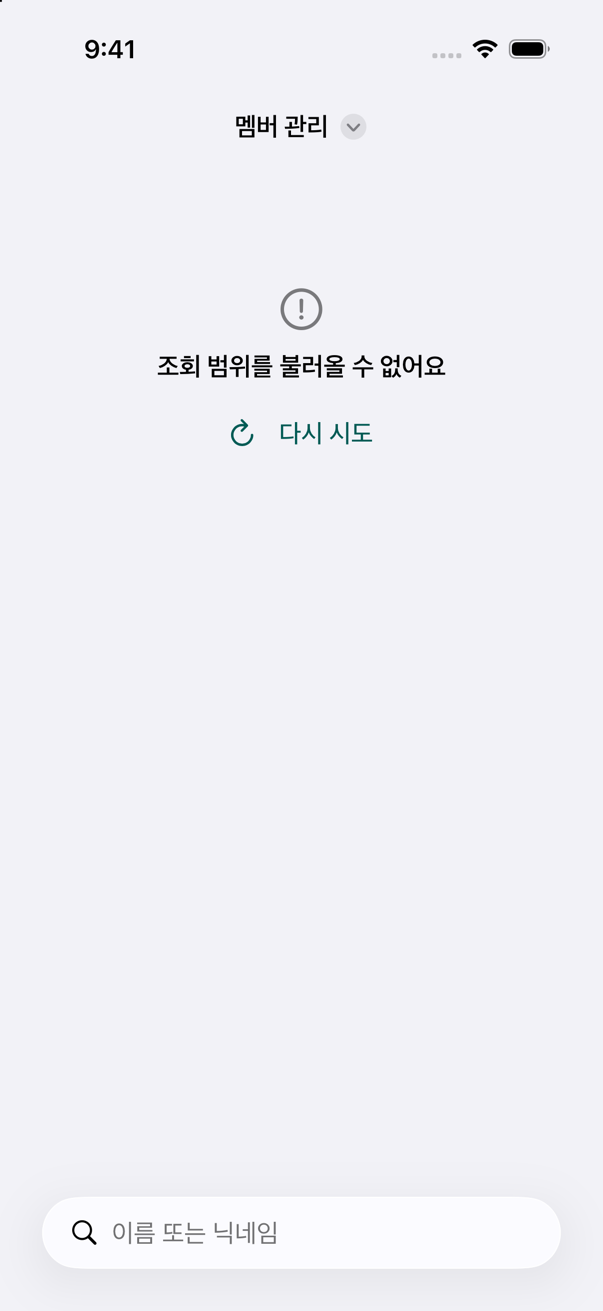
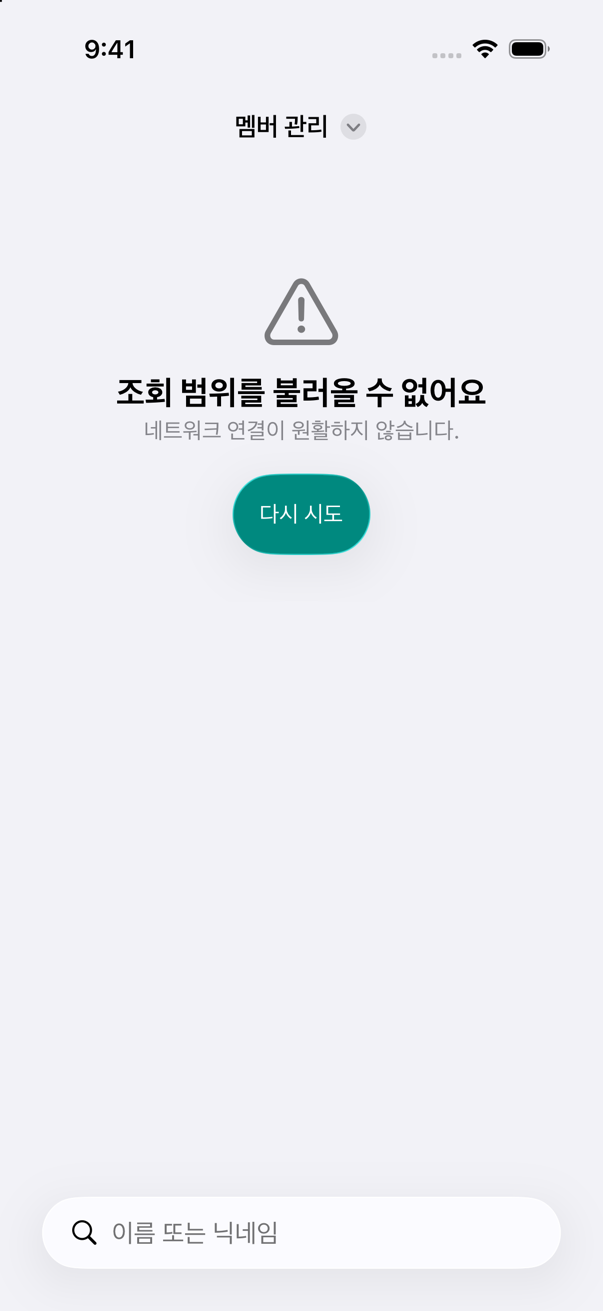
design: 운영진 멤버 조회 실패를 공통 재시도 화면으로 통일 (#1619)
- 조회 범위와 멤버 검색 실패 단계 및 AppError 분류를 보존
- 큰 글씨에서 두 오류 액션이 함께 있으면 세로로 배치하고 문의 문구 줄바꿈 허용
- 오류 복구 회귀 테스트와 일반·문의 대상 오류 화면 검증 추가

Changed region(s): [[0.209, 0.2136, 0.806, 0.4272]]

diff --git a/UMCApp/Features/Activity/Presentation/Tests/MemberAdministrationViewModelTests.swift b/UMCApp/Features/Activity/Presentation/Tests/MemberAdministrationViewModelTests.swift
@@ -37,6 +37,7 @@ private final class AdministrationFake: MemberAdministrationUseCaseProtocol {
     var organizationGate: SearchGate?
     var organizationFails = false
     var generationsFail = false
+    var firstPageFailure: AppError?
     var nextPageFails = false
     var lastPage: Int?
     var generationOptions = [MemberFilterOption(id: "10", name: "10기", isActive: true)]
@@ -44,6 +45,7 @@ private final class AdministrationFake: MemberAdministrationUseCaseProtocol {
     func search(filter: MemberSearchFilter, page: Int) async throws -> AdminMemberPage {
         lastFilter = filter
         lastPage = page
+        if page == 0, let firstPageFailure { throw firstPageFailure }
         if page > 0 && nextPageFails { throw URLError(.badServerResponse) }
         if filter.keyword == "old", let gate { await gate.pause() }
         return .init(members: [adminMember(filter.keyword.isEmpty ? "initial" : filter.keyword)], hasNext: true)
@@ -150,7 +152,7 @@ struct MemberAdministrationViewModelTests {
 
         await vm.load()
 
-        #expect(vm.errorMessage != nil)
+        #expect(vm.filterOptionsState == .failed(AppError.from(URLError(.badServerResponse))))
         #expect(!vm.isLoading)
         #expect(vm.generations.isEmpty)
         #expect(vm.organizations.schools.isEmpty)
@@ -160,7 +162,7 @@ struct MemberAdministrationViewModelTests {
         api.generationsFail = false
         await vm.retry()
 
-        #expect(vm.errorMessage == nil)
+        #expect(vm.searchError == nil)
         #expect(!vm.isLoading)
         #expect(vm.generations.map(\.id) == ["10"])
         #expect(vm.filter.gisuId == "10")
@@ -194,6 +196,22 @@ struct MemberAdministrationViewModelTests {
         #expect(api.lastFilter == .init(keyword: "검색", gisuId: "10", schoolId: "20"))
     }
 
+    @Test func searchFailureRetainsReportableCauseUntilRetrySucceeds() async {
+        let api = AdministrationFake()
+        let error = AppError.repository(.invalidResponse(detail: "결과 형식 불일치"))
+        api.firstPageFailure = error
+        let vm = MemberAdministrationViewModel(useCase: api, membersUseCase: MemberActionsFake(),
+                                               session: UserSessionManager())
+        await vm.load()
+        #expect(vm.filterOptionsState == .ready)
+        #expect(vm.searchError == error)
+        #expect(vm.searchError?.isReportable == true)
+        api.firstPageFailure = nil
+        await vm.retry()
+        #expect(vm.searchError == nil)
+        #expect(vm.members.map(\.id) == ["initial"])
+    }
+
     @Test func paginationFailureKeepsResultsAndRetriesSamePage() async {
         let api = AdministrationFake()
         let vm = MemberAdministrationViewModel(useCase: api, membersUseCase: MemberActionsFake(),
@@ -202,7 +220,7 @@ struct MemberAdministrationViewModelTests {
         api.nextPageFails = true
         await vm.loadMore()
         #expect(vm.nextPageError != nil)
-        #expect(vm.errorMessage == nil)
+        #expect(vm.searchError == nil)
         #expect(vm.members.map(\.id) == ["initial"])
         #expect(api.lastPage == 1)
         api.nextPageFails = false
@@ -217,15 +235,14 @@ struct MemberAdministrationViewModelTests {
         let vm = MemberAdministrationViewModel(useCase: api, membersUseCase: MemberActionsFake(),
                                                session: UserSessionManager())
         await vm.load()
-        #expect(vm.errorMessage != nil)
-        #expect(vm.filterOptionsState == .failed("조직 조회 실패"))
+        #expect(vm.filterOptionsState == .failed(.domain(.custom(message: "조직 조회 실패"))))
         await vm.search()
         #expect(api.lastFilter == nil)
-        #expect(vm.errorMessage != nil)
+        #expect(vm.filterOptionsState == .failed(.domain(.custom(message: "조직 조회 실패"))))
         api.organizationFails = false
         await vm.retry()
         #expect(vm.organizations.schools.map(\.id) == ["20"])
-        #expect(vm.errorMessage == nil)
+        #expect(vm.searchError == nil)
     }
 
     @Test func staleSearchCannotReplaceNewResults() async {

diff --git a/UMCApp/Features/Activity/Presentation/Sources/ViewModels/MemberAdministrationViewModel.swift b/UMCApp/Features/Activity/Presentation/Sources/ViewModels/MemberAdministrationViewModel.swift
@@ -10,7 +10,7 @@ final class MemberAdministrationViewModel {
     enum FilterOptionsState: Equatable {
         case loading
         case ready
-        case failed(String)
+        case failed(AppError)
     }
 
     private let useCase: MemberAdministrationUseCaseProtocol
@@ -24,7 +24,7 @@ final class MemberAdministrationViewModel {
     private(set) var isLoadingNextPage = false
     private(set) var isMutating = false
     private(set) var isLoadingDetail = false
-    private(set) var errorMessage: String?
+    private(set) var searchError: AppError?
     private(set) var nextPageError: String?
     private(set) var filterOptionsState: FilterOptionsState = .loading
     private(set) var detailError: String?
@@ -121,7 +121,7 @@ final class MemberAdministrationViewModel {
         guard !loaded else { return }
         filterOptionsState = .loading
         isLoading = true
-        errorMessage = nil
+        searchError = nil
         let sessionRevision = session.sessionRevision
         do {
             let fetchedAuthority = try await useCase.fetchAuthority()
@@ -142,9 +142,7 @@ final class MemberAdministrationViewModel {
             loaded = true
             await changeGeneration()
         } catch {
-            let description = message(error)
-            filterOptionsState = .failed(description)
-            errorMessage = description
+            filterOptionsState = .failed(listError(from: error))
             isLoading = false
         }
     }
@@ -164,7 +162,7 @@ final class MemberAdministrationViewModel {
         nextPageError = nil
         organizations = .init(chapters: [], schools: [])
         isLoading = true
-        errorMessage = nil
+        searchError = nil
         filterOptionsState = .loading
         do {
             let options = try await useCase.fetchOrganizations(gisuId: gisuId)
@@ -175,9 +173,7 @@ final class MemberAdministrationViewModel {
             await search()
         } catch {
             guard version == organizationVersion else { return }
-            let description = message(error)
-            filterOptionsState = .failed(description)
-            errorMessage = description
+            filterOptionsState = .failed(listError(from: error))
             isLoading = false
         }
     }
@@ -196,7 +192,7 @@ final class MemberAdministrationViewModel {
         defer { if version == requestVersion { isLoading = false } }
         isLoadingNextPage = false
         nextPageError = nil
-        errorMessage = nil
+        searchError = nil
         members = []
         hasNext = false
         do {
@@ -210,7 +206,7 @@ final class MemberAdministrationViewModel {
             hasNext = result.hasNext
         } catch {
             guard version == requestVersion, !Task.isCancelled else { return }
-            errorMessage = message(error)
+            searchError = listError(from: error)
         }
     }
 
@@ -308,7 +304,13 @@ final class MemberAdministrationViewModel {
         await reloadHistory()
     }
 
-    static let genericErrorMessage = "요청을 처리하지 못했어요. 잠시 후 다시 시도해 주세요."
+    /// 조직 권한 등 도메인 오류는 원래 분류로 보존하고 나머지는 공통 변환을 사용합니다.
+    private func listError(from error: Error) -> AppError {
+        if let domainError = error as? DomainError { return .domain(domainError) }
+        return AppError.from(error)
+    }
+
+    private static let genericErrorMessage = "요청을 처리하지 못했어요. 잠시 후 다시 시도해 주세요."
 
     private func message(_ error: Error) -> String {
         if let error = error as? DomainError { return error.userMessage }

diff --git a/UMCApp/Features/Activity/Presentation/Sources/Views/Operator/OperatorMemberManagementView.swift b/UMCApp/Features/Activity/Presentation/Sources/Views/Operator/OperatorMemberManagementView.swift
@@ -54,16 +54,16 @@ struct OperatorMemberManagementView: View {
             switch viewModel.filterOptionsState {
             case .loading:
                 loadingRow("조회 범위를 확인하는 중…")
-            case .failed(let reason):
+            case .failed(let error):
                 failureSection(
                     viewModel.generations.isEmpty ? "조회 범위를 불러올 수 없어요" : "조직을 불러올 수 없어요",
-                    reason: reason
+                    error: error
                 )
             case .ready:
                 if viewModel.isLoading {
                     loadingRow("멤버를 찾는 중…")
-                } else if let error = viewModel.errorMessage {
-                    failureSection("멤버 목록을 불러올 수 없어요", reason: error)
+                } else if let error = viewModel.searchError {
+                    failureSection("멤버 목록을 불러올 수 없어요", error: error)
                 } else if viewModel.members.isEmpty {
                     ContentUnavailableView(
                         "조회된 멤버가 없어요", systemImage: "person.2",
@@ -95,30 +95,16 @@ struct OperatorMemberManagementView: View {
         ProgressView(title).frame(maxWidth: .infinity)
     }
 
-    private func failureSection(_ title: String, reason: String) -> some View {
-        VStack(spacing: DefaultSpacing.spacing12) {
-            Image(systemName: "exclamationmark.circle")
-                .font(.title)
-                .foregroundStyle(.secondary)
-                .accessibilityHidden(true)
-            Text(title).font(.headline)
-            if !reason.isEmpty, reason != MemberAdministrationViewModel.genericErrorMessage {
-                Text(reason).font(.subheadline).foregroundStyle(.secondary)
-            }
-            Button {
-                Task { await viewModel.retry() }
-            } label: {
-                Label("다시 시도", systemImage: "arrow.clockwise")
-                    .font(.body.weight(.medium))
-                    .frame(minHeight: DefaultConstant.minimumTouchTarget)
-            }
-            .buttonStyle(.borderless)
-            .labelStyle(.titleAndIcon)
-            .tint(.teal700)
-        }
-        .multilineTextAlignment(.center)
-        .frame(maxWidth: .infinity)
-        .padding(.vertical, DefaultSpacing.spacing24)
+    private func failureSection(_ title: String, error: AppError) -> some View {
+        RetryContentUnavailableView(
+            title: title,
+            systemImage: "exclamationmark.triangle",
+            description: error.userMessage,
+            isRetrying: viewModel.isLoading,
+            error: error,
+            screenName: "운영진 멤버 관리",
+            retryAction: { await viewModel.retry() }
+        )
         .listRowBackground(Color.clear)
     }
 

diff --git a/UMCApp/Core/UIComponents/Sources/State/RetryContentUnavailableView.swift b/UMCApp/Core/UIComponents/Sources/State/RetryContentUnavailableView.swift
@@ -54,6 +54,7 @@ public struct RetryContentUnavailableView: View {
     public let screenName: String
     public let retryAction: () async -> Void
 
+    @Environment(\.dynamicTypeSize) private var dynamicTypeSize
     @Environment(\.inquiryChannelOpener) private var inquiryChannelOpener
     @Environment(ErrorHandler.self) private var errorHandler
     @State private var reportPrompt: AlertPrompt?
@@ -91,6 +92,15 @@ public struct RetryContentUnavailableView: View {
         self.retryAction = retryAction
     }
 
+    /// 큰 글씨에서 두 액션이 서로의 너비를 줄여 제목을 잘게 나누지 않도록 합니다.
+    private var actionLayout: AnyLayout {
+        if dynamicTypeSize.isAccessibilitySize, error?.isReportable == true,
+           inquiryChannelOpener != nil {
+            return AnyLayout(VStackLayout(spacing: 12))
+        }
+        return AnyLayout(HStackLayout(spacing: 12))
+    }
+
     // MARK: - Body
     public var body: some View {
         ContentUnavailableView {
@@ -99,7 +109,7 @@ public struct RetryContentUnavailableView: View {
             Text(description)
                 .multilineTextAlignment(.center)
         } actions: {
-            HStack(spacing: 12) {
+            actionLayout {
                 Button {
                     Task {
                         await retryAction()
@@ -123,10 +133,15 @@ public struct RetryContentUnavailableView: View {
                 .disabled(isRetrying)
 
                 if let error, error.isReportable, inquiryChannelOpener != nil {
-                    Button(Constants.reportTitle) {
+                    Button {
                         presentReportPrompt(for: error)
+                    } label: {
+                        Text(Constants.reportTitle)
+                            .multilineTextAlignment(.center)
+                            .lineLimit(nil)
+                            .fixedSize(horizontal: false, vertical: true)
+                            .frame(maxWidth: .infinity, minHeight: 44)
                     }
-                    .frame(maxWidth: .infinity, minHeight: 44)
                     .buttonStyle(.glass)
                 }
             }

diff --git a/UMCApp/Features/Activity/Presentation/Sources/Views/Operator/MemberAdministrationFilterSheet.swift b/UMCApp/Features/Activity/Presentation/Sources/Views/Operator/MemberAdministrationFilterSheet.swift
@@ -24,10 +24,10 @@ struct MemberAdministrationFilterSheet: View {
                 switch viewModel.filterOptionsState {
                 case .loading:
                     ProgressView(viewModel.generations.isEmpty ? "기수를 불러오는 중…" : "학교와 지부를 불러오는 중…")
-                case .failed(let reason):
+                case .failed(let error):
                     retrySection(
                         viewModel.generations.isEmpty ? "조회 범위를 불러올 수 없어요" : "학교와 지부를 불러올 수 없어요",
-                        reason: reason
+                        reason: error.userMessage
                     )
                 case .ready:
                     Section {
@@ -45,8 +45,8 @@ struct MemberAdministrationFilterSheet: View {
                             Task { await viewModel.resetFilters() }
                         }
                     }
-                    if let error = viewModel.errorMessage {
-                        retrySection("멤버 목록을 불러올 수 없어요", reason: error)
+                    if let error = viewModel.searchError {
+                        retrySection("멤버 목록을 불러올 수 없어요", reason: error.userMessage)
                     } else if viewModel.isLoading {
                         ProgressView("멤버를 찾는 중…")
                     }
